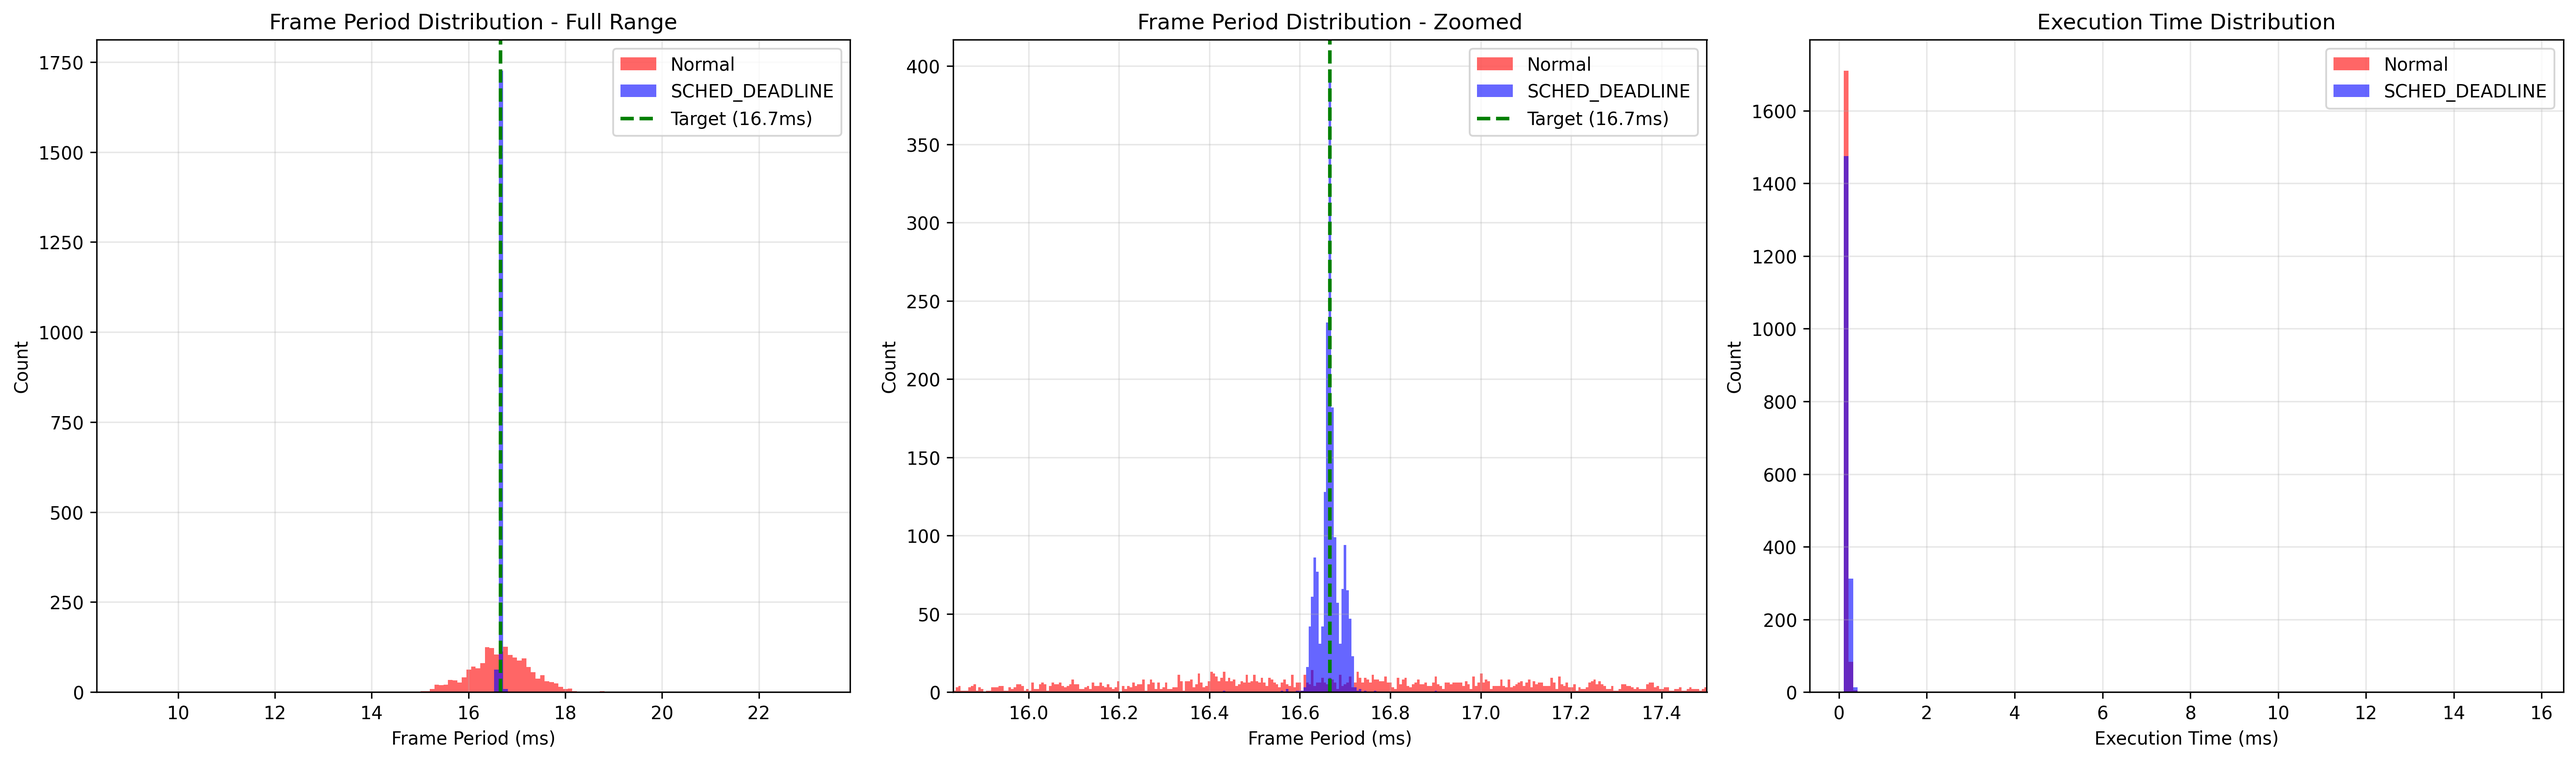
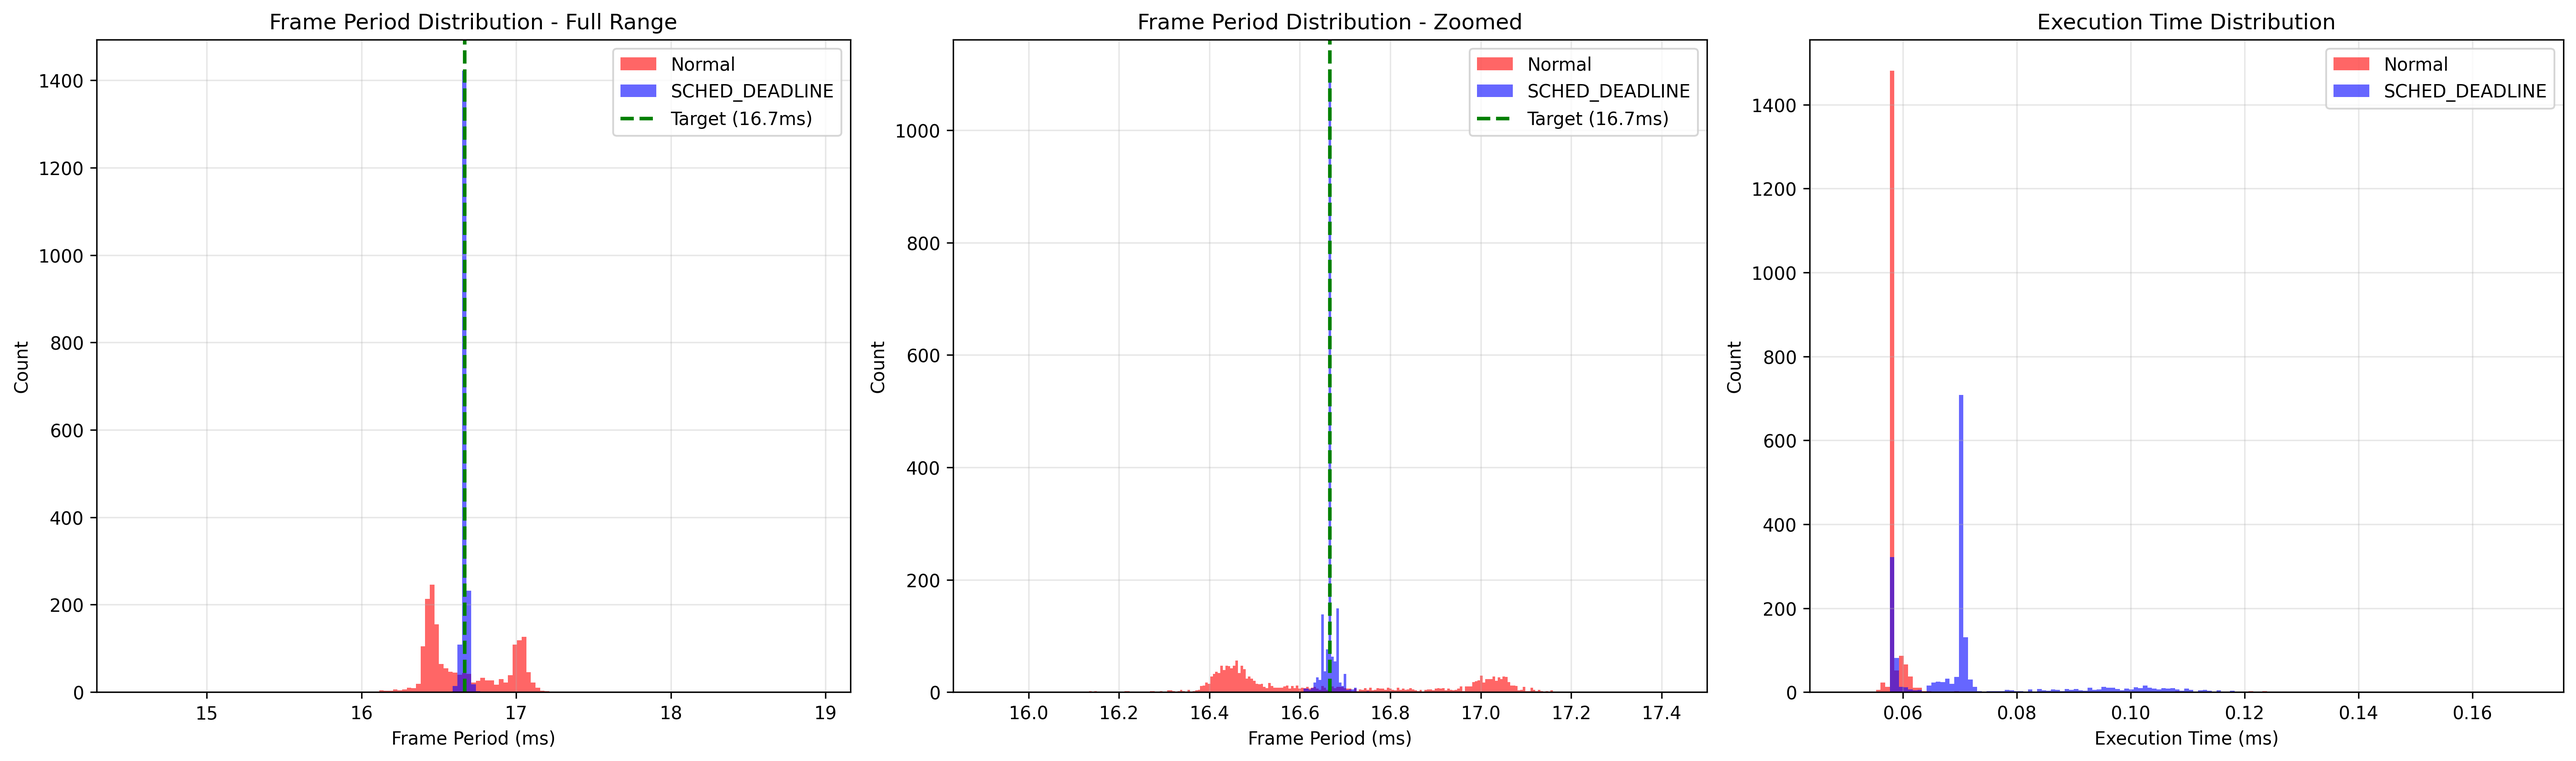
Update graph and result based on RTX 6000 Ada Generation machine

diff --git a/benchmarks/realtime_threads_benchmarking/README.md b/benchmarks/realtime_threads_benchmarking/README.md
@@ -174,19 +174,19 @@ Benchmark Configurations
 Benchmark Results
 ================================================================================
 === Non-real-time Thread (Baseline) ===
-Frame period std: 0.646 ms
+Frame period std: 0.257 ms
 Frame period mean: 16.667 ms
-Frame period min/max: 10.027 ms / 21.073 ms
+Frame period min/max: 16.120 ms / 17.218 ms
 
 === Real-time Thread ===
-Frame period std: 0.024 ms
+Frame period std: 0.013 ms
 Frame period mean: 16.667 ms
-Frame period min/max: 16.435 ms / 16.899 ms
+Frame period min/max: 16.569 ms / 16.753 ms
 
 ================================================================================
 Non-real-time and Real-time Thread Benchmark Comparison
 ================================================================================
-Period std comparison:     0.65 ms →     0.02 ms  (+96.22%)
+Period std comparison:     0.26 ms →     0.01 ms  (+94.77%)
 
 Raw measurement data written to: /tmp/benchmark_plots/realtime_thread_benchmark_results.json
 
